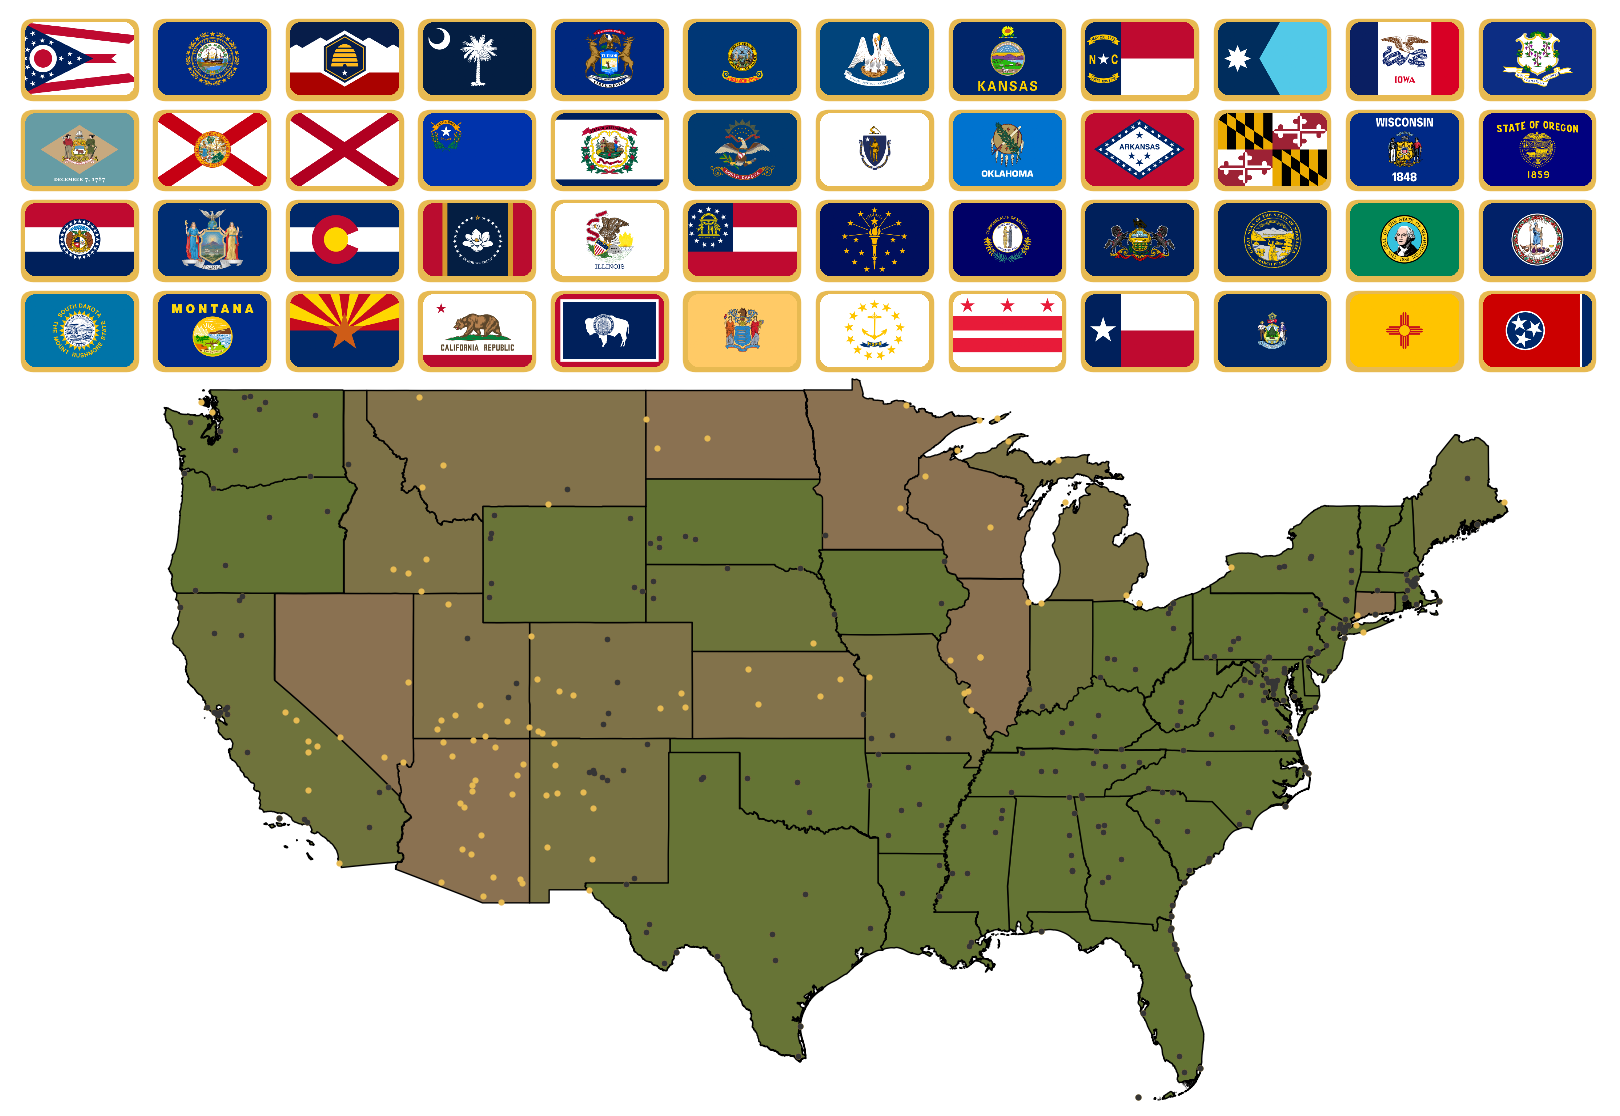
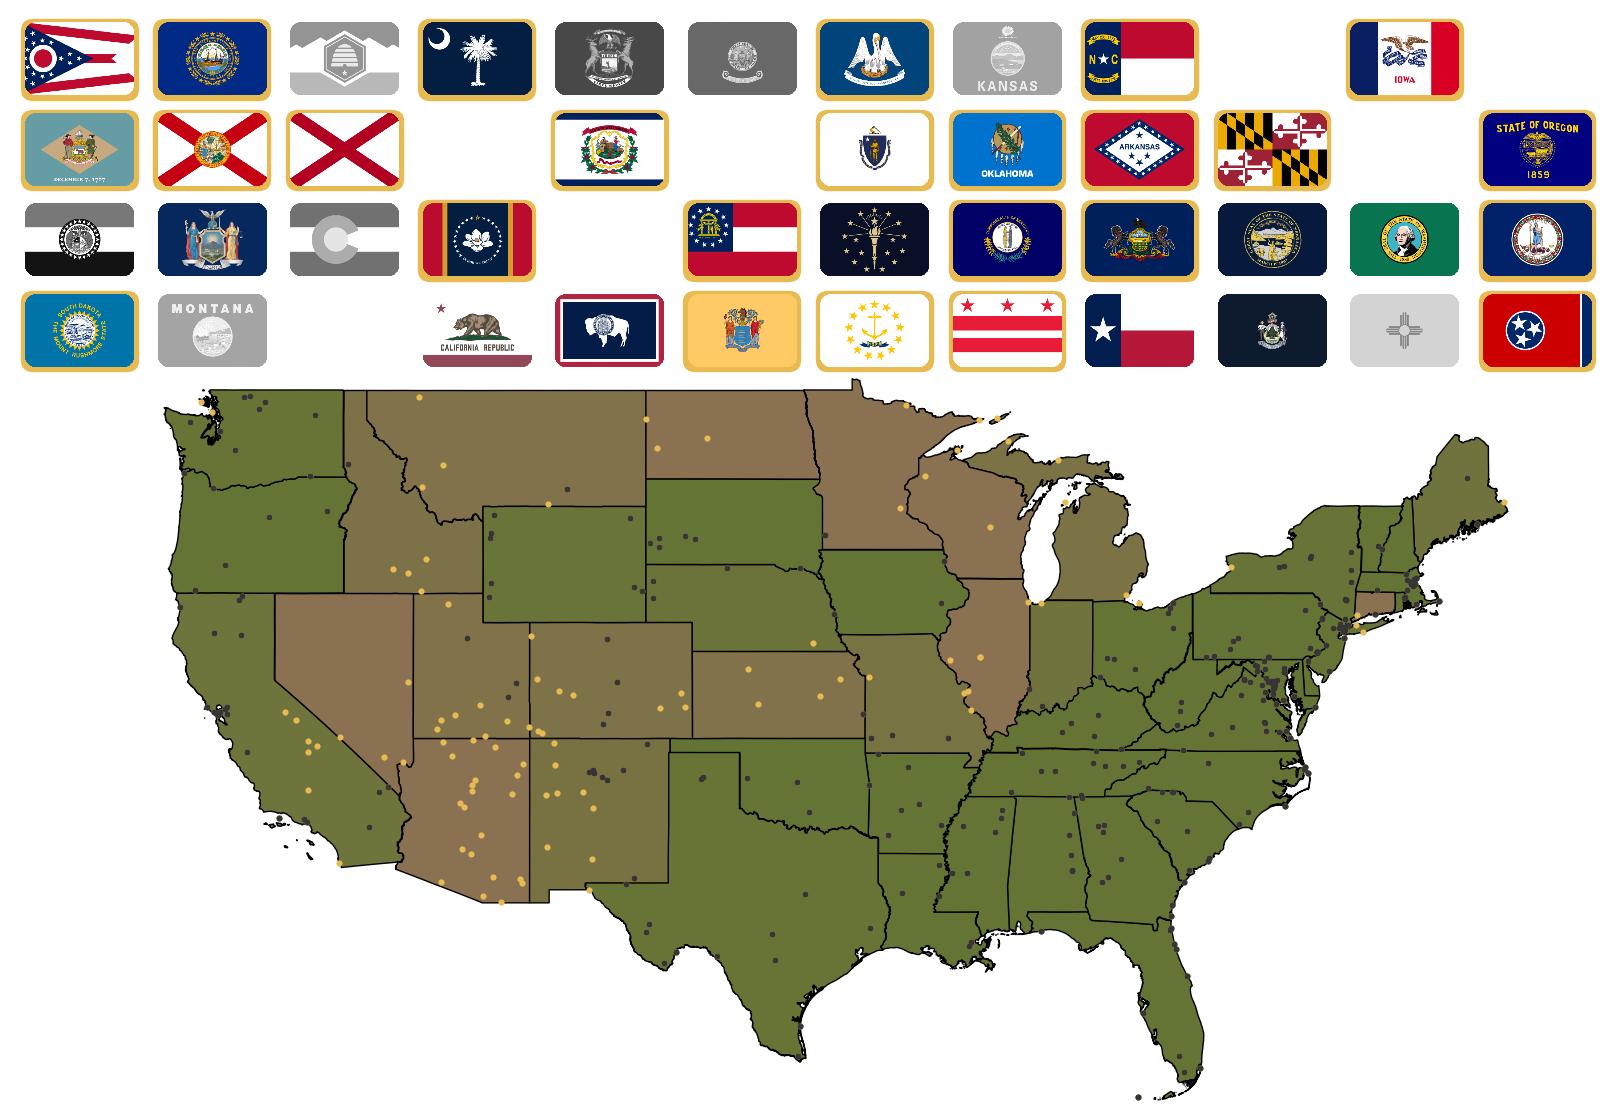
update small map

diff --git a/main.py b/main.py
@@ -46,13 +46,13 @@ plot_manager = PlotManager(
 
 # Add first plot
 current_date = points_sorted['date'].min() - datetime.timedelta(days=1)
-#plot_manager.generate_plot(current_date, points_sorted.iloc[0], copy=True)
+plot_manager.generate_plot(current_date, points_sorted.iloc[0], copy=True)
 
 # Plot all dates
 for _, row in points_sorted.iterrows():
     current_date = row['date']
     if pd.notna(current_date) and current_date != old_date:
-        #plot_manager.generate_plot(current_date, row)
+        plot_manager.generate_plot(current_date, row)
         old_date = current_date
 
 # Create Last Plot

diff --git a/plotting/plotting_manager.py b/plotting/plotting_manager.py
@@ -122,7 +122,7 @@ class PlotManager:
         for i, file in enumerate(png_files):
             frameon = False
 
-            ratio = 1#self.ratios[file[:2]]
+            ratio = self.ratios[file[:2]]
             if ratio == 1:
                 frameon = True
 
